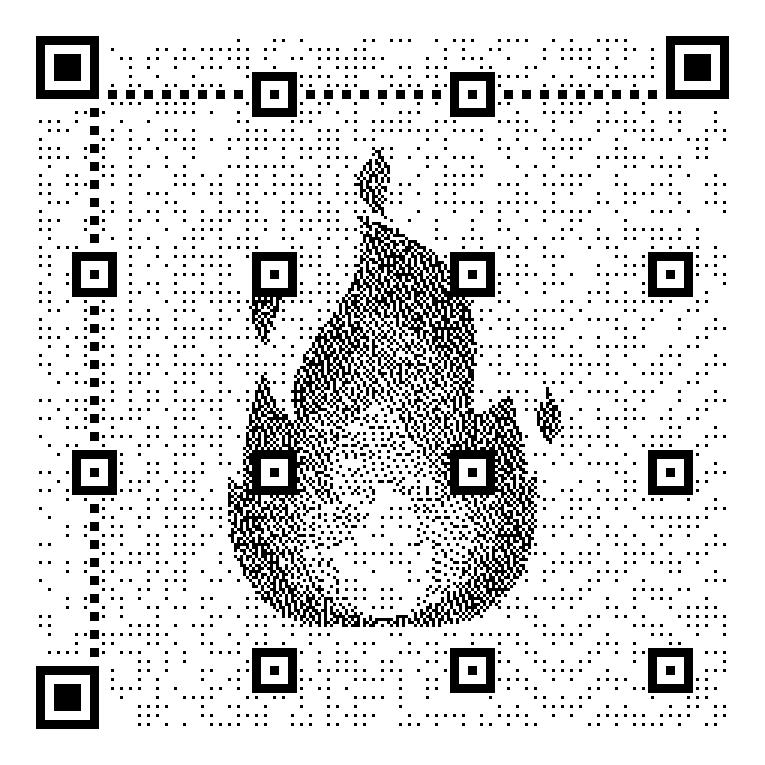
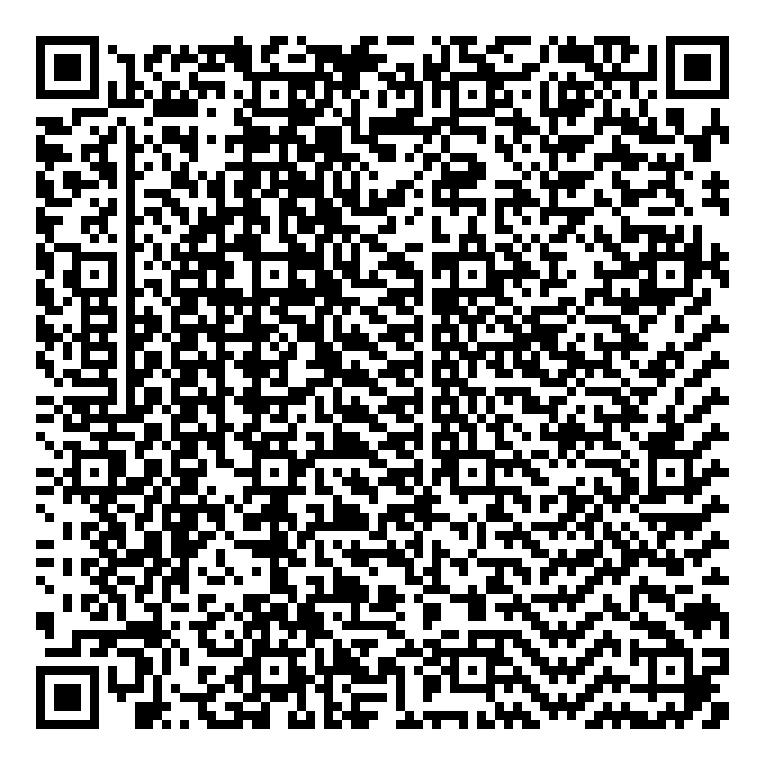
update QRcode

diff --git a/server/qrCode.py b/server/qrCode.py
@@ -4,8 +4,8 @@ import os
 device = [1,3,5,7,13,20,23]
 
 for idx in device:
-    myqr.run(words = 'http://127.0.0.1:5000/index/%d' % (idx), # 可放網址或文字(限英文)
-            picture = 'fire.jpg',
+    myqr.run(words = 'http://127.0.0.1:5000/index/%d' % (idx), # 可放網址或文字
+            picture = None,
             version = 15, # QR Code的邊長，越大圖案越清楚
             level = 'H', # 糾錯水平，預設是H(最高)
             colorized = False, # 背景圖片是否用彩色，True為彩色
